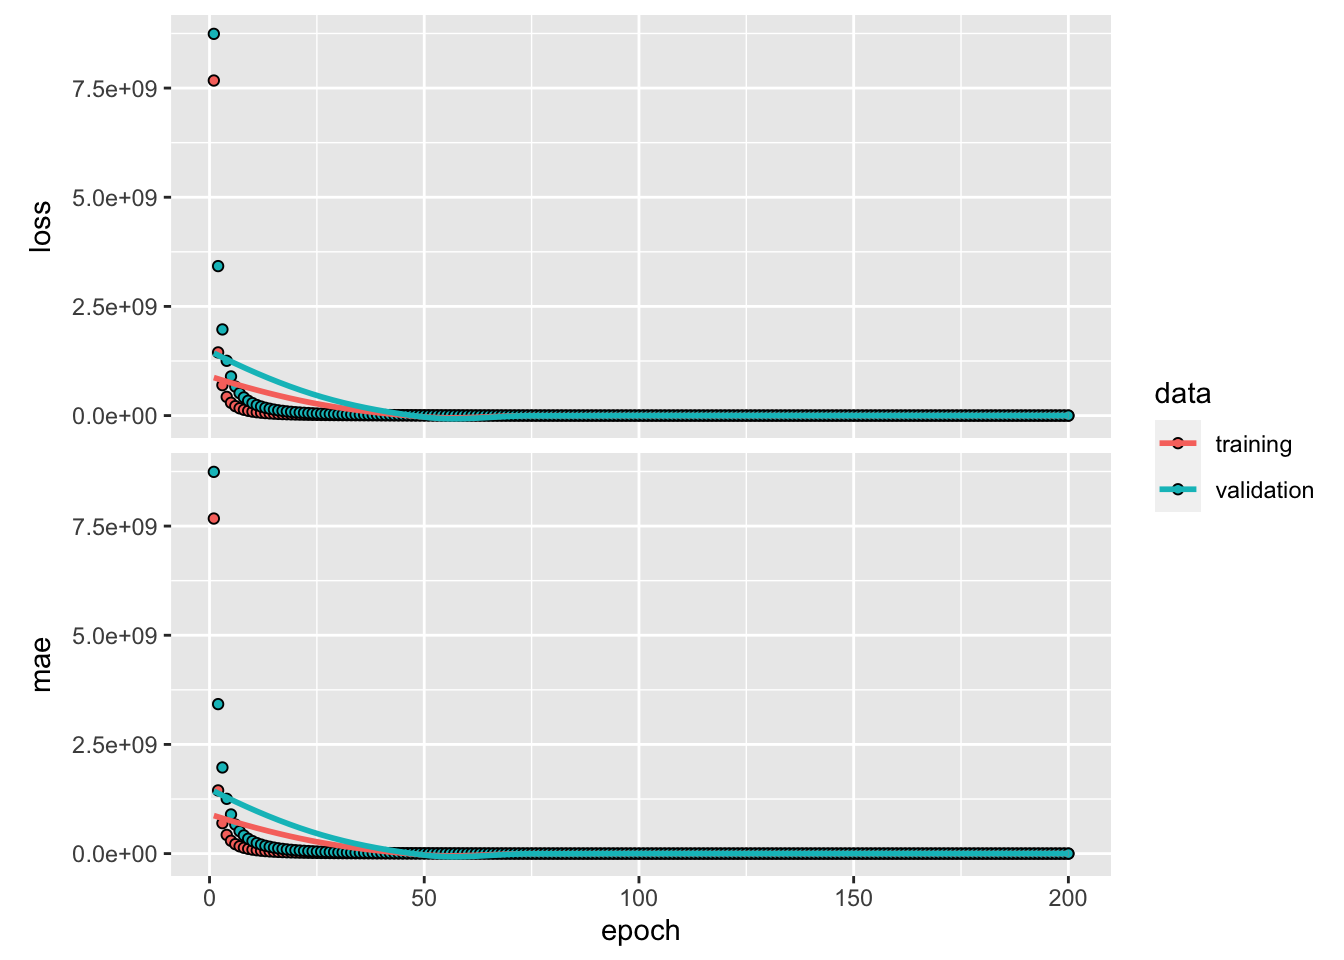
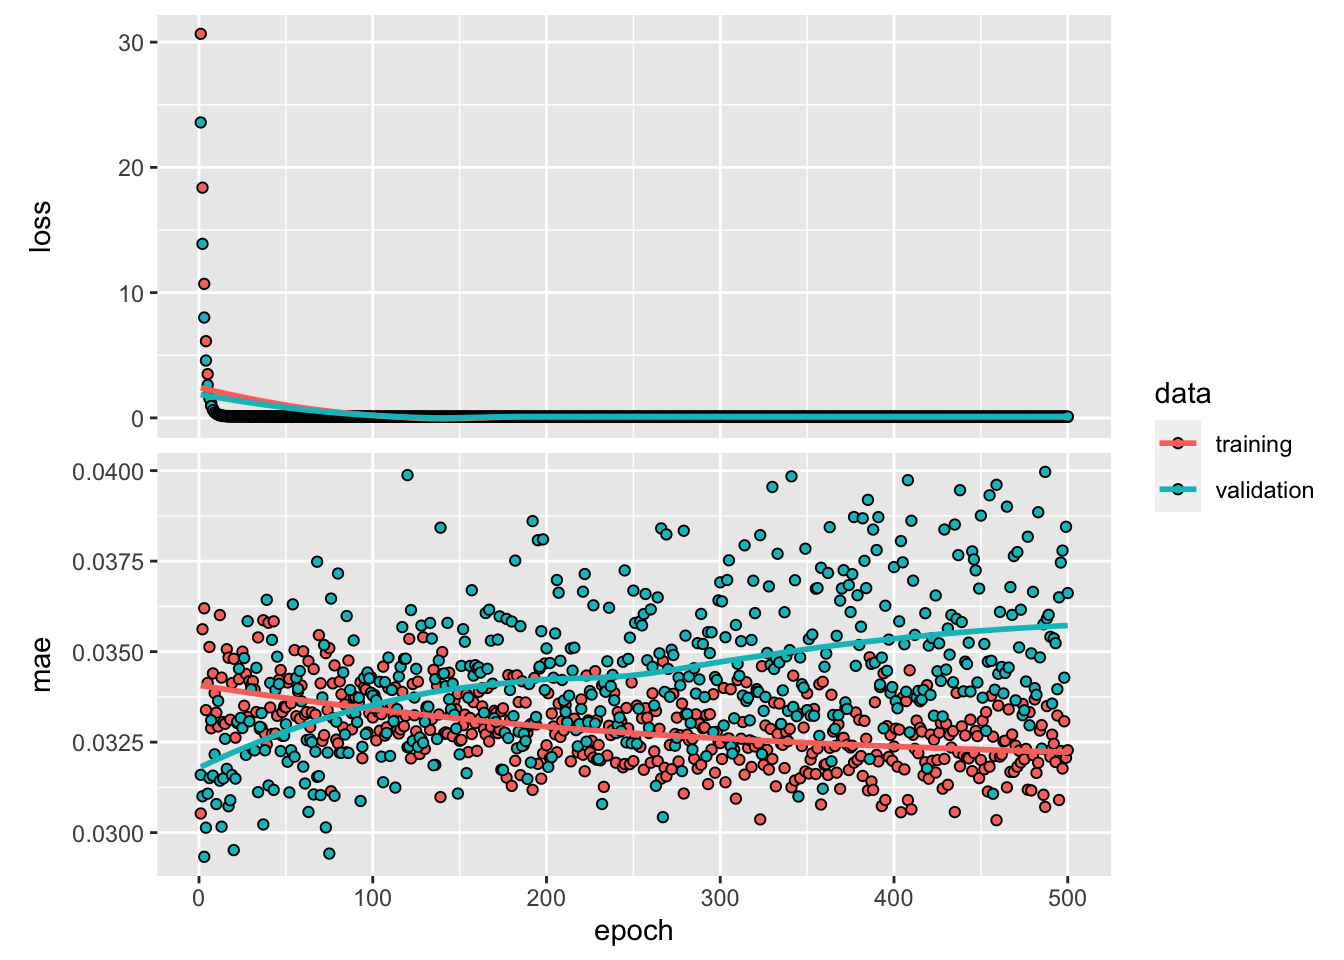
（。々°）

diff --git a/pamtools.html b/pamtools.html
@@ -242,7 +242,7 @@ div.tocify {
 
 <h1 class="title toc-ignore">pamtools</h1>
 <h4 class="author">Lukas</h4>
-<h4 class="date">2021-06-22 14:48:03</h4>
+<h4 class="date">2021-08-10 15:57:00</h4>
 
 </div>
 
@@ -261,12 +261,11 @@ library(broom)
 library(ggplot2)
 
 # Sacrificing a goat to the python env
-#reticulate::use_condaenv(&quot;r-reticulate&quot;, required = TRUE)
-reticulate::use_condaenv(&quot;renv/python/r-reticulate/bin/python&quot;)
+reticulate::use_condaenv(&quot;deeppamm&quot;, required = TRUE)
 reticulate:::ensure_python_initialized()
 tensorflow::tf_config()</code></pre>
-<pre><code>## TensorFlow v2.5.0 (~/repos/github/jemus42/DeepPAM/renv/python/r-reticulate/lib/python3.6/site-packages/tensorflow)
-## Python v3.6 (~/repos/github/jemus42/DeepPAM/renv/python/r-reticulate/bin/python)</code></pre>
+<pre><code>## TensorFlow v2.5.0 (~/Library/r-miniconda/envs/python_data_train/lib/python3.8/site-packages/tensorflow)
+## Python v3.8 (~/Library/r-miniconda/envs/python_data_train/bin/python)</code></pre>
 <pre class="r"><code># pamtools I guess?
 library(pammtools)
 library(survival)
@@ -349,7 +348,7 @@ pam_nn &lt;- keras_model(
 <p>Also not sure how to <code>offset</code></p>
 <div id="x_pad-nyi" class="section level3" number="2.1.1">
 <h3><span class="header-section-number">2.1.1</span> <code>X_pad</code> (NYI)</h3>
-<p>One row per <span class="math inline">\(\text{subject id} \times \text{unique interval}\)</span>, with 1 indicating presence in the respective risk set? Using <code>tend</code> as interval identifier because that’s thwe variable we used for the pem?</p>
+<p>One row per <span class="math inline">\(\text{subject id} \times \text{unique interval}\)</span>, with 1 indicating presence in the respective risk set? Using <code>tend</code> as interval identifier because that’s the variable we used for the pem?</p>
 <p><code>keras</code> docs not doing me any favors wrt the proper format.</p>
 <pre class="r"><code>X_pad &lt;- right_join(
   ped_vetu %&gt;%
@@ -367,11 +366,14 @@ X_pad %&gt;%
 <pre><code>## # A tibble: 5 x 3
 ##      id  tend weight
 ##   &lt;int&gt; &lt;dbl&gt;  &lt;dbl&gt;
-## 1     1   133      0
-## 2     1   357      0
-## 3     1    53      1
-## 4     1     1      1
-## 5     1   378      0</code></pre>
+## 1     1    22      1
+## 2     1   111      0
+## 3     1    48      1
+## 4     1    56      1
+## 5     1   260      0</code></pre>
+</div>
+<div id="network-fitting" class="section level3" number="2.1.2">
+<h3><span class="header-section-number">2.1.2</span> Network fitting</h3>
 <pre class="r"><code>pam_nn %&gt;%
   compile(
     optimizer = optimizer_adam(),
@@ -408,7 +410,7 @@ pam_nn</code></pre>
     # linear effect for age, smooth effect of tend via model matrix
     x = list(as.matrix(ped_vetu[, &quot;age&quot;]), pam_modelmat_smooth),
     y =  ped_vetu$ped_status,
-    epochs = 200,
+    epochs = 500,
     batch_size = 32,
     validation_split = 0.2,
     # sample_weight = &quot;temporal&quot;,
@@ -419,23 +421,23 @@ plot(history)</code></pre>
 <p><img src="pamtools_files/figure-html/pam-nn-fit-1.png" width="672" /></p>
 <pre class="r"><code>get_weights(pam_nn)</code></pre>
 <pre><code>## [[1]]
-##            [,1]
-## [1,] 0.08814956
+##             [,1]
+## [1,] -0.01073898
 ## 
 ## [[2]]
-## [1] -0.2962492
+## [1] -3.54005
 ## 
 ## [[3]]
-##             [,1]
-##  [1,]  0.2235651
-##  [2,] -0.3346148
-##  [3,] -0.3869227
-##  [4,]  0.3255725
-##  [5,] -0.7140702
-##  [6,] -0.3107129
-##  [7,]  0.3493645
-##  [8,] -0.4575109
-##  [9,] -0.5391268</code></pre>
+##               [,1]
+##  [1,]  0.001003721
+##  [2,] -0.005622442
+##  [3,]  0.001190848
+##  [4,] -0.001998162
+##  [5,]  0.002160815
+##  [6,] -0.002340948
+##  [7,] -0.001905526
+##  [8,]  0.006253744
+##  [9,]  0.359163672</code></pre>
 <pre class="r"><code># Reference coefs from PAM
 list(
   coef(pam_age)[1],
